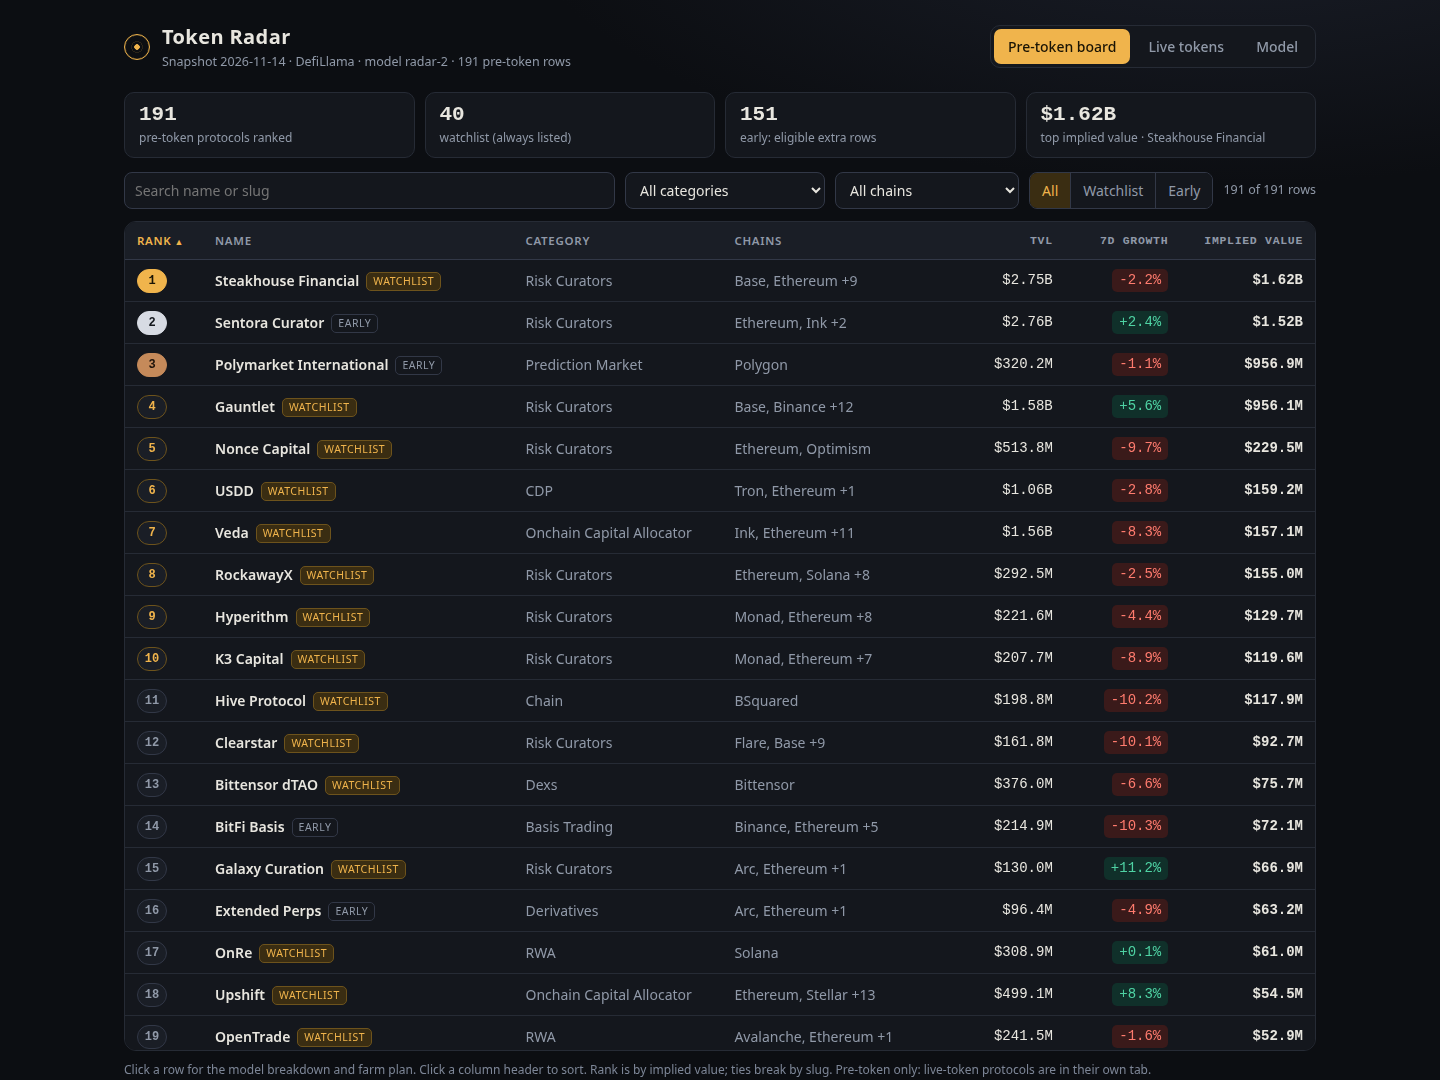
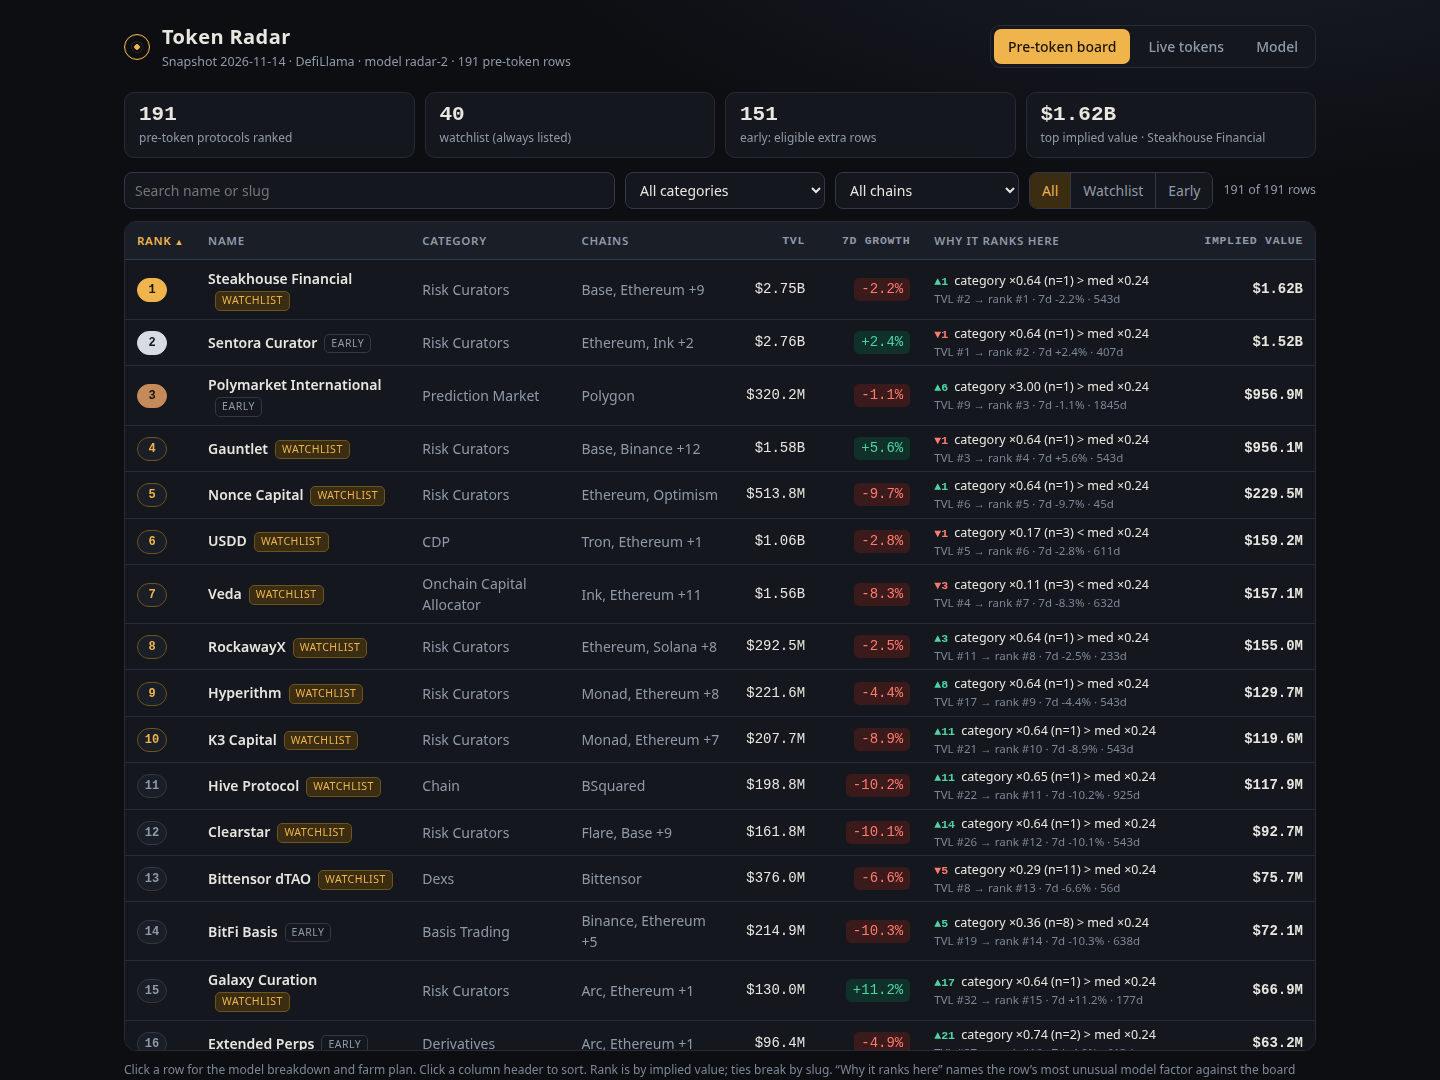
Dashboard v4: data-derived model explanation and per-row rank annotations

diff --git a/dashboard/app.js b/dashboard/app.js
@@ -75,8 +75,43 @@
 
   // ---------- board ----------
   var B = { key: 'rank', dir: 'asc', q: '', cat: '', chain: '', scope: 'all' };
-  var BCOLS = [['rank', 'Rank'], ['name', 'Name'], ['category', 'Category'], ['chains_n', 'Chains'], ['tvl_usd', 'TVL', 1], ['change_7d', '7d growth', 1], ['implied_value_usd', 'Implied value', 1]];
+  var BCOLS = [['rank', 'Rank'], ['name', 'Name'], ['category', 'Category'], ['chains_n', 'Chains'], ['tvl_usd', 'TVL', 1], ['change_7d', '7d growth', 1], ['shift', 'Why it ranks here'], ['implied_value_usd', 'Implied value', 1]];
   rows.forEach(function (r) { r.chains_n = r.chains.length; });
+
+  // ---------- rank reasons, all derived from data.js ----------
+  function median(a) { var v = a.slice().sort(function (p, q) { return p - q; }), n = v.length; return n ? (n % 2 ? v[(n - 1) / 2] : (v[n / 2 - 1] + v[n / 2]) / 2) : 0; }
+  rows.slice().sort(function (a, b) { return b.tvl_usd - a.tvl_usd || (a.slug < b.slug ? -1 : 1); }).forEach(function (r, i) { r.tvl_rank = i + 1; });
+  rows.forEach(function (r) { r.shift = r.tvl_rank - r.rank; });
+  var FACT = [['category_multiple', 'category', 'Category multiple'], ['growth_multiplier', 'growth', 'Growth'], ['maturity_multiplier', 'maturity', 'Maturity'], ['chain_multiplier', 'chain', 'Chain']];
+  var med = {};
+  FACT.forEach(function (f) { med[f[0]] = median(rows.map(function (r) { return r.model[f[0]]; })); });
+  var catRows = {};
+  rows.forEach(function (r) { catRows[cat(r)] = (catRows[cat(r)] || 0) + 1; });
+  function pct(v) { return (v >= 0 ? '+' : '−') + Math.abs(v * 100).toFixed(0) + '%'; }
+  function factors(r) {
+    return FACT.map(function (f) { var ratio = r.model[f[0]] / med[f[0]]; return { key: f[0], id: f[1], label: f[2], val: r.model[f[0]], med: med[f[0]], ratio: ratio, ln: Math.log(ratio) }; });
+  }
+  function driver(r) {
+    return factors(r).sort(function (a, b) { return Math.abs(b.ln) - Math.abs(a.ln) || (a.id < b.id ? -1 : 1); })[0];
+  }
+  function ageTxt(r) { return r.model.age_days === null ? 'age unknown' : r.model.age_days + 'd listed'; }
+  function whyCell(r) {
+    var d = driver(r), s = catStat[cat(r)], up = d.ln >= 0;
+    var main = d.id === 'category' ? 'category ×' + d.val.toFixed(2) + ' (n=' + s.n + ') ' + (up ? '>' : '<') + ' med ×' + d.med.toFixed(2) :
+      d.id + ' ×' + d.val.toFixed(2) + ' ' + (up ? '>' : '<') + ' med ×' + d.med.toFixed(2);
+    var mv = r.shift > 0 ? '<b class="up">▲' + r.shift + '</b>' : r.shift < 0 ? '<b class="down">▼' + (-r.shift) + '</b>' : '<b class="flat">=</b>';
+    return '<span class="why1">' + mv + ' ' + esc(main) + '</span><small>TVL #' + r.tvl_rank + ' → rank #' + r.rank + ' · 7d ' + (r.change_7d === null ? 'n/a' : (r.change_7d > 0 ? '+' : '') + r.change_7d.toFixed(1) + '%') + ' · ' + (r.model.age_days === null ? 'age ?' : r.model.age_days + 'd') + '</small>';
+  }
+  function catRead(c) {
+    var g = R.global_median, per100 = usd(1e8 * c.multiple), vs = pct(c.multiple / g - 1);
+    var blended = c.weight * (c.raw_median === null ? 0 : c.raw_median) + (1 - c.weight) * g, clamped = Math.abs(blended - c.multiple) > 1e-9;
+    var tier = c.n === 0 ? 'none' : c.weight < 0.5 ? 'thin' : 'solid';
+    var t = c.n === 0 ? 'No live peers: falls back to the global median. ' :
+      c.n + ' peer' + (c.n > 1 ? 's' : '') + ' → ' + Math.round(c.weight * 100) + '% own median ×' + c.raw_median.toFixed(2) + ', ' + Math.round((1 - c.weight) * 100) + '% global; ' + (tier === 'thin' ? 'leans on the global median. ' : 'mostly reflects the category. ');
+    if (clamped && c.n > 0) t += 'Clamped from ×' + blended.toFixed(2) + ' to the ' + (c.multiple <= C.multiple_min + 1e-9 ? 'floor' : 'cap') + '. ';
+    t += '$100M TVL → ' + per100 + ' (' + vs + ' vs global).';
+    return { tier: tier, text: t };
+  }
 
   function boardView() {
     var early = R.extra_size;
@@ -92,7 +127,7 @@
       '<div class="seg" id="sc">' + [['all', 'All'], ['watch', 'Watchlist'], ['early', 'Early']].map(function (s) { return '<button data-sc="' + s[0] + '" aria-pressed="' + (B.scope === s[0]) + '">' + s[1] + '</button>'; }).join('') + '</div>' +
       '<span class="count" id="cnt"></span></div>' +
       '<div class="wrap"><table id="bt"></table></div>' +
-      '<p class="hint">Click a row for the model breakdown and farm plan. Click a column header to sort. Rank is by implied value; ties break by slug. Pre-token only: live-token protocols are in their own tab.</p>';
+      '<p class="hint">Click a row for the model breakdown and farm plan. Click a column header to sort. Rank is by implied value; ties break by slug. “Why it ranks here” names the row’s most unusual model factor against the board median and shows how far rank moved from a pure TVL ordering (▲ up, ▼ down); sort it to see the biggest movers. Pre-token only: live-token protocols are in their own tab.</p>';
     var fc = document.getElementById('fc'), fh = document.getElementById('fh'), q = document.getElementById('q');
     fc.value = B.cat; fh.value = B.chain;
     q.oninput = function () { B.q = q.value; drawBoard(); };
@@ -122,8 +157,8 @@
       return '<tr tabindex="0" data-slug="' + esc(r.slug) + '"><td>' + badge(r.rank) + '</td>' +
         '<td class="nm"><b>' + esc(r.name) + '</b>' + (r.watchlist ? '<span class="tag wl">watchlist</span>' : '<span class="tag">early</span>') + '</td>' +
         '<td class="mut">' + esc(cat(r)) + '</td><td class="mut">' + chains(r) + '</td>' +
-        '<td class="n">' + usd(r.tvl_usd) + '</td><td class="n">' + chg(r.change_7d) + '</td><td class="n val">' + usd(r.implied_value_usd) + '</td></tr>';
-    }).join('') : '<tr><td colspan="7" class="empty">No rows match these filters.</td></tr>';
+        '<td class="n">' + usd(r.tvl_usd) + '</td><td class="n">' + chg(r.change_7d) + '</td><td class="why">' + whyCell(r) + '</td><td class="n val">' + usd(r.implied_value_usd) + '</td></tr>';
+    }).join('') : '<tr><td colspan="8" class="empty">No rows match these filters.</td></tr>';
     document.getElementById('bt').innerHTML = head(BCOLS, B) + '<tbody>' + body + '</tbody>';
     bindSort(B, drawBoard);
     document.querySelectorAll('#bt tbody tr[data-slug]').forEach(function (tr) {
@@ -163,10 +198,22 @@
       line('×', 'Chain', nch + ' chain' + (nch === 1 ? '' : 's') + ': 1 + ' + C.chain_step + ' × clamp(' + nch + ' − 1, 0, ' + C.chain_max_extra + ')', x(m.chain_multiplier), track(m.chain_multiplier, 1, 1 + C.chain_step * C.chain_max_extra)) +
       '<tr class="res"><td class="op">=</td><td class="lbl"><b>Implied value</b><small>unrounded product ' + full(product) + '; rounded, kept within 1 to 1e14</small></td><td class="v">' + full(r.implied_value_usd) + '</td></tr>' +
       '</tbody></table></div>' +
+      whyCard(r) +
       '<div class="card"><h3>Basics</h3><dl class="kv"><dt>Slug</dt><dd>' + esc(r.slug) + '</dd><dt>Category</dt><dd>' + esc(cat(r)) + '</dd><dt>Listed</dt><dd>' + esc(r.listed_at || 'unknown') + '</dd><dt>TVL</dt><dd>' + usd(r.tvl_usd) + '</dd><dt>7d TVL change</dt><dd>' + chg(r.change_7d) + '</dd><dt>Token</dt><dd>none yet (mcap null)</dd><dt>Board scope</dt><dd>' + (r.watchlist ? 'watchlist' : 'early (eligible extra)') + '</dd></dl>' +
       '<div class="chips">' + r.chains.map(function (c) { return '<span>' + esc(c) + '</span>'; }).join('') + '</div></div>' +
       '</div><div class="card"><h3>Farm plan · ' + r.farm_steps.length + ' steps</h3><ol class="steps">' + r.farm_steps.map(function (t) { return '<li>' + esc(t) + '</li>'; }).join('') + '</ol></div></div>';
     document.getElementById('bk').onclick = function () { location.hash = '#board'; };
+  }
+
+  function whyCard(r) {
+    var fs = factors(r), s = catStat[cat(r)], cr = catRead(s);
+    var mv = r.shift > 0 ? 'rises ' + r.shift + ' place' + (r.shift > 1 ? 's' : '') + ' above' : r.shift < 0 ? 'falls ' + (-r.shift) + ' place' + (r.shift < -1 ? 's' : '') + ' below' : 'matches';
+    var rowsH = fs.map(function (f) {
+      var d = f.ratio - 1, w = Math.min(50, Math.abs(Math.log(f.ratio)) / Math.log(3) * 50);
+      return '<li><span class="fl">' + f.label + '</span><span class="fv">×' + f.val.toFixed(3) + ' vs ×' + f.med.toFixed(3) + '</span><span class="dv"><i class="' + (d >= 0 ? 'p' : 'm') + '" style="width:' + w.toFixed(1) + '%;' + (d >= 0 ? 'left:50%' : 'right:50%') + '"></i></span><span class="fd ' + (d >= 0 ? 'up' : 'down') + '">' + pct(d) + '</span></li>';
+    }).join('');
+    return '<div class="card"><h3>Why rank ' + r.rank + '</h3><p class="lead">TVL ' + usd(r.tvl_usd) + ' is #' + r.tvl_rank + ' of ' + rows.length + '; the model ' + mv + ' that order at #' + r.rank + '. Each factor vs the board median:</p><ul class="fx">' + rowsH + '</ul>' +
+      '<p class="note"><b>' + esc(cat(r)) + '</b> (' + (catRows[cat(r)]) + ' board row' + (catRows[cat(r)] > 1 ? 's' : '') + '): ' + esc(cr.text) + '</p></div>';
   }
 
   // ---------- live ----------
@@ -203,16 +250,30 @@
   }
 
   // ---------- model ----------
+  function catTable() {
+    var list = R.categories.filter(function (c) { return c.n > 0 || catRows[c.category]; }).sort(function (a, b) { return (catRows[b.category] || 0) - (catRows[a.category] || 0) || b.n - a.n || (a.category < b.category ? -1 : 1); });
+    var t = { none: 0, thin: 0, solid: 0 };
+    list.forEach(function (c) { t[catRead(c).tier]++; });
+    return '<div class="tiers"><span class="tier none"><b>' + t.none + '</b> no peers → global median</span><span class="tier thin"><b>' + t.thin + '</b> thin (weight &lt; 50%)</span><span class="tier solid"><b>' + t.solid + '</b> solid (weight ≥ 50%)</span></div>' +
+      '<div class="wrap short"><table class="ct"><thead><tr><th class="plain">Category</th><th class="plain n">board rows</th><th class="plain n">n</th><th class="plain n">raw median</th><th class="plain n">weight</th><th class="plain n">multiple</th><th class="plain">What it implies</th></tr></thead><tbody>' +
+      list.map(function (c) { var cr = catRead(c); return '<tr class="tr-' + cr.tier + '"><td>' + esc(c.category) + '</td><td class="n">' + (catRows[c.category] || 0) + '</td><td class="n">' + c.n + '</td><td class="n">' + (c.raw_median === null ? '—' : c.raw_median.toFixed(3)) + '</td><td class="n">' + c.weight.toFixed(3) + '</td><td class="n">' + c.multiple.toFixed(3) + '</td><td class="rd">' + esc(cr.text) + '</td></tr>'; }).join('') + '</tbody></table></div>';
+  }
+  function exampleBlock() {
+    var r = rows[0], m = r.model, p = r.tvl_usd * m.category_multiple * m.growth_multiplier * m.maturity_multiplier * m.chain_multiplier;
+    var spread = FACT.map(function (f) { var v = rows.map(function (q) { return q.model[f[0]]; }); return '<tr><td>' + f[2] + '</td><td class="n">' + Math.min.apply(null, v).toFixed(3) + '</td><td class="n">' + median(v).toFixed(3) + '</td><td class="n">' + Math.max.apply(null, v).toFixed(3) + '</td></tr>'; }).join('');
+    return '<h2>Worked example: rank 1</h2><div class="formula">' + esc(r.name) + ' (' + esc(cat(r)) + ')\n' + full(r.tvl_usd) + ' × ' + m.category_multiple.toFixed(3) + ' × ' + m.growth_multiplier.toFixed(3) + ' × ' + m.maturity_multiplier.toFixed(3) + ' × ' + m.chain_multiplier.toFixed(3) + ' = ' + full(p) + '</div>' +
+      '<p>Spread of each factor across the ' + rows.length + ' board rows. A factor far from its median is what moves a row away from its TVL order; the board column “Why it ranks here” names the largest one.</p>' +
+      '<table><thead><tr><th class="plain">Factor</th><th class="plain n">min</th><th class="plain n">median</th><th class="plain n">max</th></tr></thead><tbody>' + spread + '</tbody></table>';
+  }
   function modelView() {
-    var withPeers = R.categories.filter(function (c) { return c.n > 0; }).sort(function (a, b) { return b.n - a.n || (a.category < b.category ? -1 : 1); }).slice(0, 8);
     app.innerHTML = '<article class="prose">' +
       '<h2>What the board is</h2><p>Each pre-token protocol gets an <b>implied value</b>: what the market might pay for its token, estimated from how already-tokenised protocols trade against their TVL. Every input is a number in the snapshot (TVL, 7-day TVL change, listing date, chains, and the market caps of live-token peers); no protocol is named in the code. It is a screening heuristic for ordering, not a price forecast.</p>' +
       '<div class="formula">implied = round( TVL × category_multiple × growth × maturity × chain )\nclamped to [1, 1e14]; ranked by implied desc, ties by slug asc</div>' +
       '<h2>Category multiple</h2><p>For every live-token protocol with TVL &gt; 0, take mcap / TVL. The raw category value is the <b>median</b> of that ratio within the category. The global median over all live-token protocols is ' + R.global_median.toFixed(4) + '. Thin categories are shrunk toward it:</p>' +
       '<div class="formula">w = n / (n + ' + C.shrink_k + ')                 n = live-token peers in the category\nmultiple = clamp( w × raw_median + (1 − w) × global_median, ' + C.multiple_min.toFixed(2) + ', ' + C.multiple_max.toFixed(2) + ' )</div>' +
-      '<p>With n = 0 the multiple is the global median; n = 5 gives half weight to the category. Categories with the most peers:</p>' +
-      '<table><thead><tr><th class="plain">Category</th><th class="plain n">peers n</th><th class="plain n">raw median</th><th class="plain n">weight</th><th class="plain n">multiple</th></tr></thead><tbody>' +
-      withPeers.map(function (c) { return '<tr><td>' + esc(c.category) + '</td><td class="n">' + c.n + '</td><td class="n">' + c.raw_median.toFixed(3) + '</td><td class="n">' + c.weight.toFixed(3) + '</td><td class="n">' + c.multiple.toFixed(3) + '</td></tr>'; }).join('') + '</tbody></table>' +
+      '<p>With n = 0 the multiple is the global median; n = ' + C.shrink_k + ' gives half weight to the category.</p>' +
+      '<p>Notes for every category with live peers or board rows are below; each reading is generated from the snapshot values.</p>' + catTable() +
+      exampleBlock() +
       '<h2>Growth, maturity, chain</h2>' +
       '<div class="formula">growth   = 1 + clamp(change_7d, ' + C.growth_floor + ', ' + C.growth_cap + ') / 100 × ' + C.growth_weight + '      (null change counts as 0)\nmaturity = ' + C.maturity_floor + ' + ' + C.maturity_range + ' × min(age_days, ' + C.maturity_days + ') / ' + C.maturity_days + '   (age from listed_at to as_of; unknown = ' + C.unknown_age_days + ' days)\nchain    = 1 + ' + C.chain_step + ' × clamp(chains − 1, 0, ' + C.chain_max_extra + ')</div>' +
       '<p>So growth ranges from ' + (1 + C.growth_floor / 100 * C.growth_weight).toFixed(2) + ' to ' + (1 + C.growth_cap / 100 * C.growth_weight).toFixed(2) + ', maturity from ' + C.maturity_floor + ' (just listed) to ' + (C.maturity_floor + C.maturity_range).toFixed(1) + ' (three years or more), and chain from 1.00 to ' + (1 + C.chain_step * C.chain_max_extra).toFixed(2) + '. Age is measured against the snapshot date (' + R.as_of + '), never the current clock.</p>' +

diff --git a/dashboard/app.css b/dashboard/app.css
@@ -45,7 +45,8 @@ td{padding:8px 12px;border-bottom:1px solid var(--line);white-space:nowrap}
 tbody tr{cursor:pointer}
 tbody tr:hover{background:#1b2029}
 tbody tr:last-child td{border:0}
-td.nm{white-space:normal;min-width:180px}
+td.nm{white-space:normal;min-width:150px}
+#bt td.mut{white-space:normal}
 td.nm b{font-weight:600}
 td.mut{color:var(--mute)}
 .tag{display:inline-block;font-size:10.5px;letter-spacing:.05em;text-transform:uppercase;border-radius:5px;padding:1px 6px;margin-left:7px;vertical-align:1px;border:1px solid var(--line2);color:var(--mute)}
@@ -90,7 +91,6 @@ ol.steps li{counter-increment:s;position:relative;padding:0 0 14px 38px;margin:0
 ol.steps li::before{content:counter(s);position:absolute;left:0;top:0;width:26px;height:26px;border-radius:50%;display:grid;place-items:center;font:600 12px var(--mono);background:var(--amber-d);color:var(--amber);border:1px solid #6d531c}
 ol.steps li::after{content:"";position:absolute;left:12.5px;top:30px;bottom:4px;width:1px;background:var(--line2)}
 ol.steps li:last-child{padding-bottom:0}ol.steps li:last-child::after{display:none}
-.prose{max-width:860px}
 .prose h2{font-size:18px;margin:22px 0 8px}
 .prose h2:first-child{margin-top:4px}
 .prose p,.prose li{color:#c9ccd3;margin:6px 0}
@@ -100,5 +100,29 @@ code{font-family:var(--mono);background:var(--panel2);padding:1px 5px;border-rad
 .prose table{margin:10px 0;border:1px solid var(--line);border-radius:8px;overflow:hidden}
 .prose td,.prose th{padding:7px 12px;position:static}
 .foot{max-width:1240px;margin:0 auto;padding:0 24px 28px;color:var(--dim);font-size:12px}
+td.why{white-space:normal;width:270px;max-width:270px;line-height:1.35;padding-top:6px;padding-bottom:6px}
+td.why .why1{display:block;font-size:12.5px;color:var(--ink)}
+td.why small{display:block;color:var(--dim);font-size:11.5px;margin-top:1px}
+td.why b{font:600 11.5px var(--mono);margin-right:3px}
+.lead{color:#c9ccd3;font-size:13px;margin:0 0 8px}
+.note{color:var(--mute);font-size:12.5px;margin-top:10px}
+ul.fx{list-style:none;margin:0;padding:0}
+ul.fx li{display:grid;grid-template-columns:118px 1fr 90px 44px;gap:8px;align-items:center;padding:5px 0;border-top:1px solid var(--line);font-size:12.5px}
+ul.fx li:first-child{border:0}
+.fl{color:var(--ink)}.fv{font-family:var(--mono);color:var(--mute);font-size:11.5px;white-space:nowrap}
+.fd{font-family:var(--mono);text-align:right}
+.dv{position:relative;height:6px;background:var(--line);border-radius:3px}
+.dv::after{content:"";position:absolute;left:50%;top:-2px;bottom:-2px;width:1px;background:var(--dim)}
+.dv i{position:absolute;top:0;bottom:0;border-radius:3px}.dv i.p{background:var(--up)}.dv i.m{background:var(--down)}
+.tiers{display:flex;gap:8px;flex-wrap:wrap;margin:10px 0}
+.tier{border:1px solid var(--line2);border-radius:8px;padding:5px 10px;font-size:12.5px;color:var(--mute);background:var(--panel)}
+.tier b{font:600 15px var(--mono);margin-right:5px;color:var(--ink)}
+.tier.thin b{color:var(--amber)}.tier.solid b{color:var(--up)}
+.wrap.short{max-height:340px;min-height:0;margin:8px 0 12px}
+.ct td{padding:6px 12px}
+.ct td.rd{white-space:normal;min-width:340px;color:var(--mute);font-size:12.5px;line-height:1.4}
+.ct tr.tr-solid td:first-child{box-shadow:inset 3px 0 var(--up)}.ct tr.tr-thin td:first-child{box-shadow:inset 3px 0 var(--amber)}.ct tr.tr-none td:first-child{box-shadow:inset 3px 0 var(--line2)}
+.ct tbody tr{cursor:default}
+.prose{max-width:1000px}
 @media(max-width:820px){.stats{grid-template-columns:repeat(2,1fr)}.grid2{grid-template-columns:1fr}.dh .big{margin-left:0;text-align:left}.wrap{max-height:none}.top{padding:16px}main{padding:6px 14px 24px}}
 @media(prefers-reduced-motion:no-preference){tbody tr{transition:background .1s}}

diff --git a/CLAUDE.md b/CLAUDE.md
@@ -43,5 +43,10 @@
 mkdir -p out && MAKEFUN_OUTPUT_DIR=out node main.ts --input ../kit/token-radar-01-kit/input/snapshot.json
 ```
 
+## ダッシュボードの説明・注釈（v4）
+- モデルタブ: カテゴリ別の n・raw median・weight・multiple・ボード行数と、「何を意味するか」の短文（ピア数、own/global の重み、clamp の有無、$100M TVL あたりの推定値）を **data.js の値から実行時に生成**。n=0／thin(weight<50%)／solid の件数、rank 1 の計算例、各係数の min/median/max も data.js から算出。ハードコードの文章・名前は使わない。
+- ボード: 「Why it ranks here」列（TVL 順位→実順位の移動 ▲▼、ボード中央値と比べて最も外れた係数、7d・年齢）。この列でソート可能。詳細ビュー: 「Why rank N」カード（TVL 順位との差、4係数のボード中央値比、カテゴリ注記）。
+- モデル・board.json・data.js・farm plan は v1 と不変（変更は dashboard/ のみ）。スクリーンショットは board / detail / model の3枚。
+
 ## 現段階のスコープ
 - 環境確認・キット理解・前提ファイル作成のみ完了。model / dashboard の実装、GitHub リポジトリ作成、キーペア作成、サインイン、提出はまだ行っていない。
